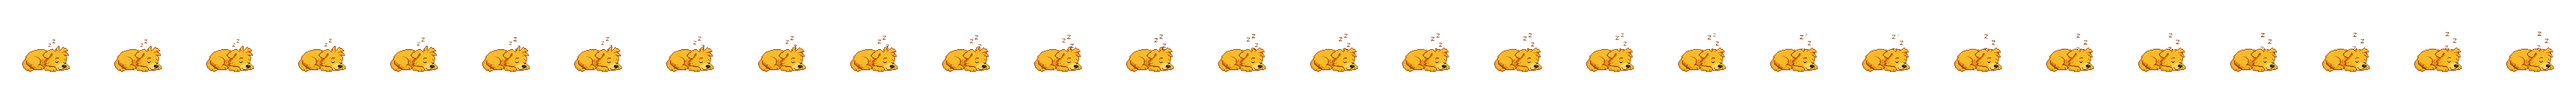
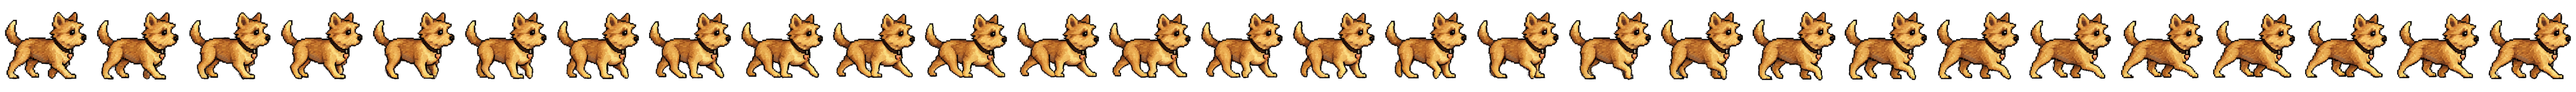
feat(trail-buddies): real Patrick + updated Nora art, drop MusicKit for now
Patrick was rendering as a fox placeholder in both onboarding and real
sessions; now uses a real 28-frame walking spritesheet (sliced from a
4x7 grid, background removed, reassembled to match the existing
5600x200 single-strip format every other buddy uses). No dedicated
idle/resting animation exists yet, so the walking cycle is reused for
the resting slot too until one is generated.

Nora's walking/resting spritesheets are replaced with an updated design,
same processing pipeline, same file names — no code changes needed
since both files already existed and were already referenced.

Also removes the withMusicKit config plugin from app.json. The App ID's
MusicKit capability isn't actually attaching to any provisioning
profile Apple issues right now (confirmed via a manually-created
profile through Apple's own UI, ruling out an EAS-side bug) — not
essential for this beta round, so dropping it unblocks tonight's build
rather than waiting on Apple to sort out whatever's stuck on their end.
Re-add "./plugins/withMusicKit" to app.json's plugins array once that's
resolved.

npx tsc --noEmit --skipLibCheck: 0 errors.

diff --git a/src/components/ParallaxForestBackground.tsx b/src/components/ParallaxForestBackground.tsx
@@ -34,10 +34,7 @@ const SPRITESHEET_WIDTH = FRAME_WIDTH * TOTAL_FRAMES; // 5600px
 
 // Use spritesheets instead of individual frames (only 5 images vs 140)
 const BUDDY_SPRITESHEETS: Record<string, ImageSourcePropType> = {
-  // TODO: swap in dedicated Patrick spritesheet once art is delivered. Fox sheet is a
-  // placeholder — matches OnboardingTrailBuddyScreen.tsx's BUDDY_SPRITESHEETS so onboarding
-  // and real sessions show the same (placeholder) animal for the default free-tier buddy.
-  patrick: require("../../assets/trail-buddies/fox_walking_optimized.webp"),
+  patrick: require("../../assets/trail-buddies/patrick_walking_optimized.webp"),
   fox: require("../../assets/trail-buddies/fox_walking_optimized.webp"),
   deer: require("../../assets/trail-buddies/deer_walking_optimized.webp"),
   wolf: require("../../assets/trail-buddies/wolf_walking_optimized.webp"),
@@ -48,8 +45,9 @@ const BUDDY_SPRITESHEETS: Record<string, ImageSourcePropType> = {
 
 // Resting spritesheets — same format (28 frames, 200x200 each, 5600x200 total)
 const BUDDY_RESTING_SPRITESHEETS: Record<string, ImageSourcePropType> = {
-  // TODO: swap in dedicated Patrick spritesheet once art is delivered. Fox sheet is a placeholder.
-  patrick: require("../../assets/trail-buddies/fox_resting_optimized.webp"),
+  // No dedicated idle/resting animation exists yet for Patrick — reusing the
+  // walking cycle here (rather than another animal) until one is generated.
+  patrick: require("../../assets/trail-buddies/patrick_resting_optimized.webp"),
   fox: require("../../assets/trail-buddies/fox_resting_optimized.webp"),
   deer: require("../../assets/trail-buddies/deer_resting_optimized.webp"),
   wolf: require("../../assets/trail-buddies/wolf_resting_optimized.webp"),

diff --git a/src/screens/onboarding/OnboardingTrailBuddyScreen.tsx b/src/screens/onboarding/OnboardingTrailBuddyScreen.tsx
@@ -46,8 +46,7 @@ const TOTAL_FRAMES = 28;
 
 // Use spritesheets instead of individual frames (only 5 images vs 140)
 const BUDDY_SPRITESHEETS: Record<string, ImageSourcePropType> = {
-  // TODO: swap in dedicated Patrick spritesheet once art is delivered. Fox sheet is a placeholder.
-  patrick: require("../../../assets/trail-buddies/fox_walking_optimized.webp"),
+  patrick: require("../../../assets/trail-buddies/patrick_walking_optimized.webp"),
   fox: require("../../../assets/trail-buddies/fox_walking_optimized.webp"),
   deer: require("../../../assets/trail-buddies/deer_walking_optimized.webp"),
   wolf: require("../../../assets/trail-buddies/wolf_walking_optimized.webp"),
